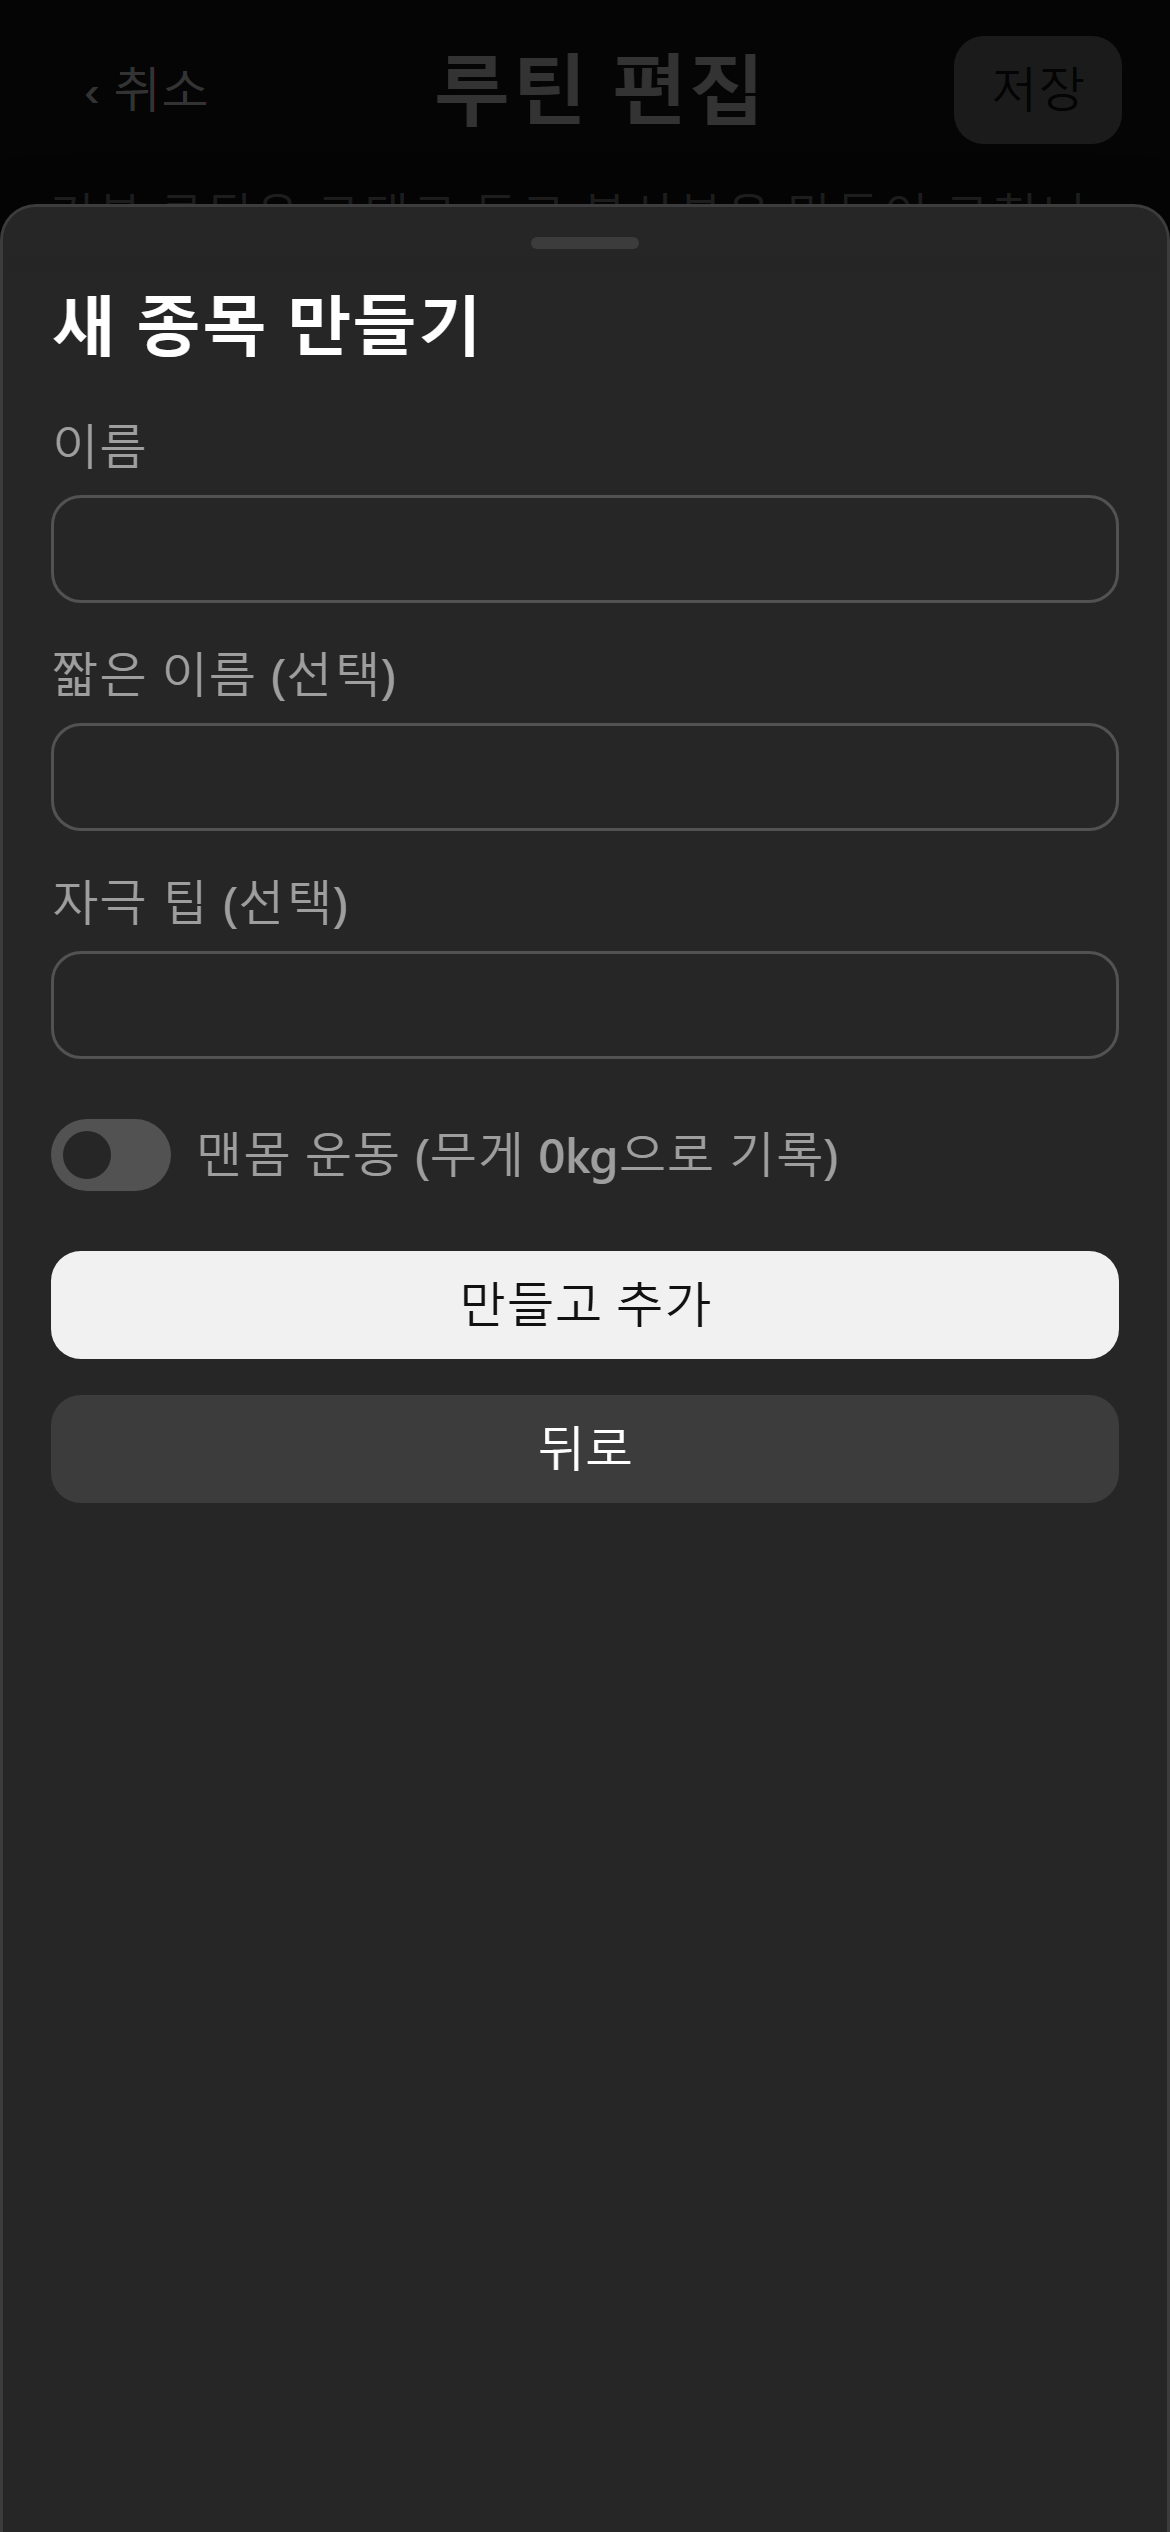
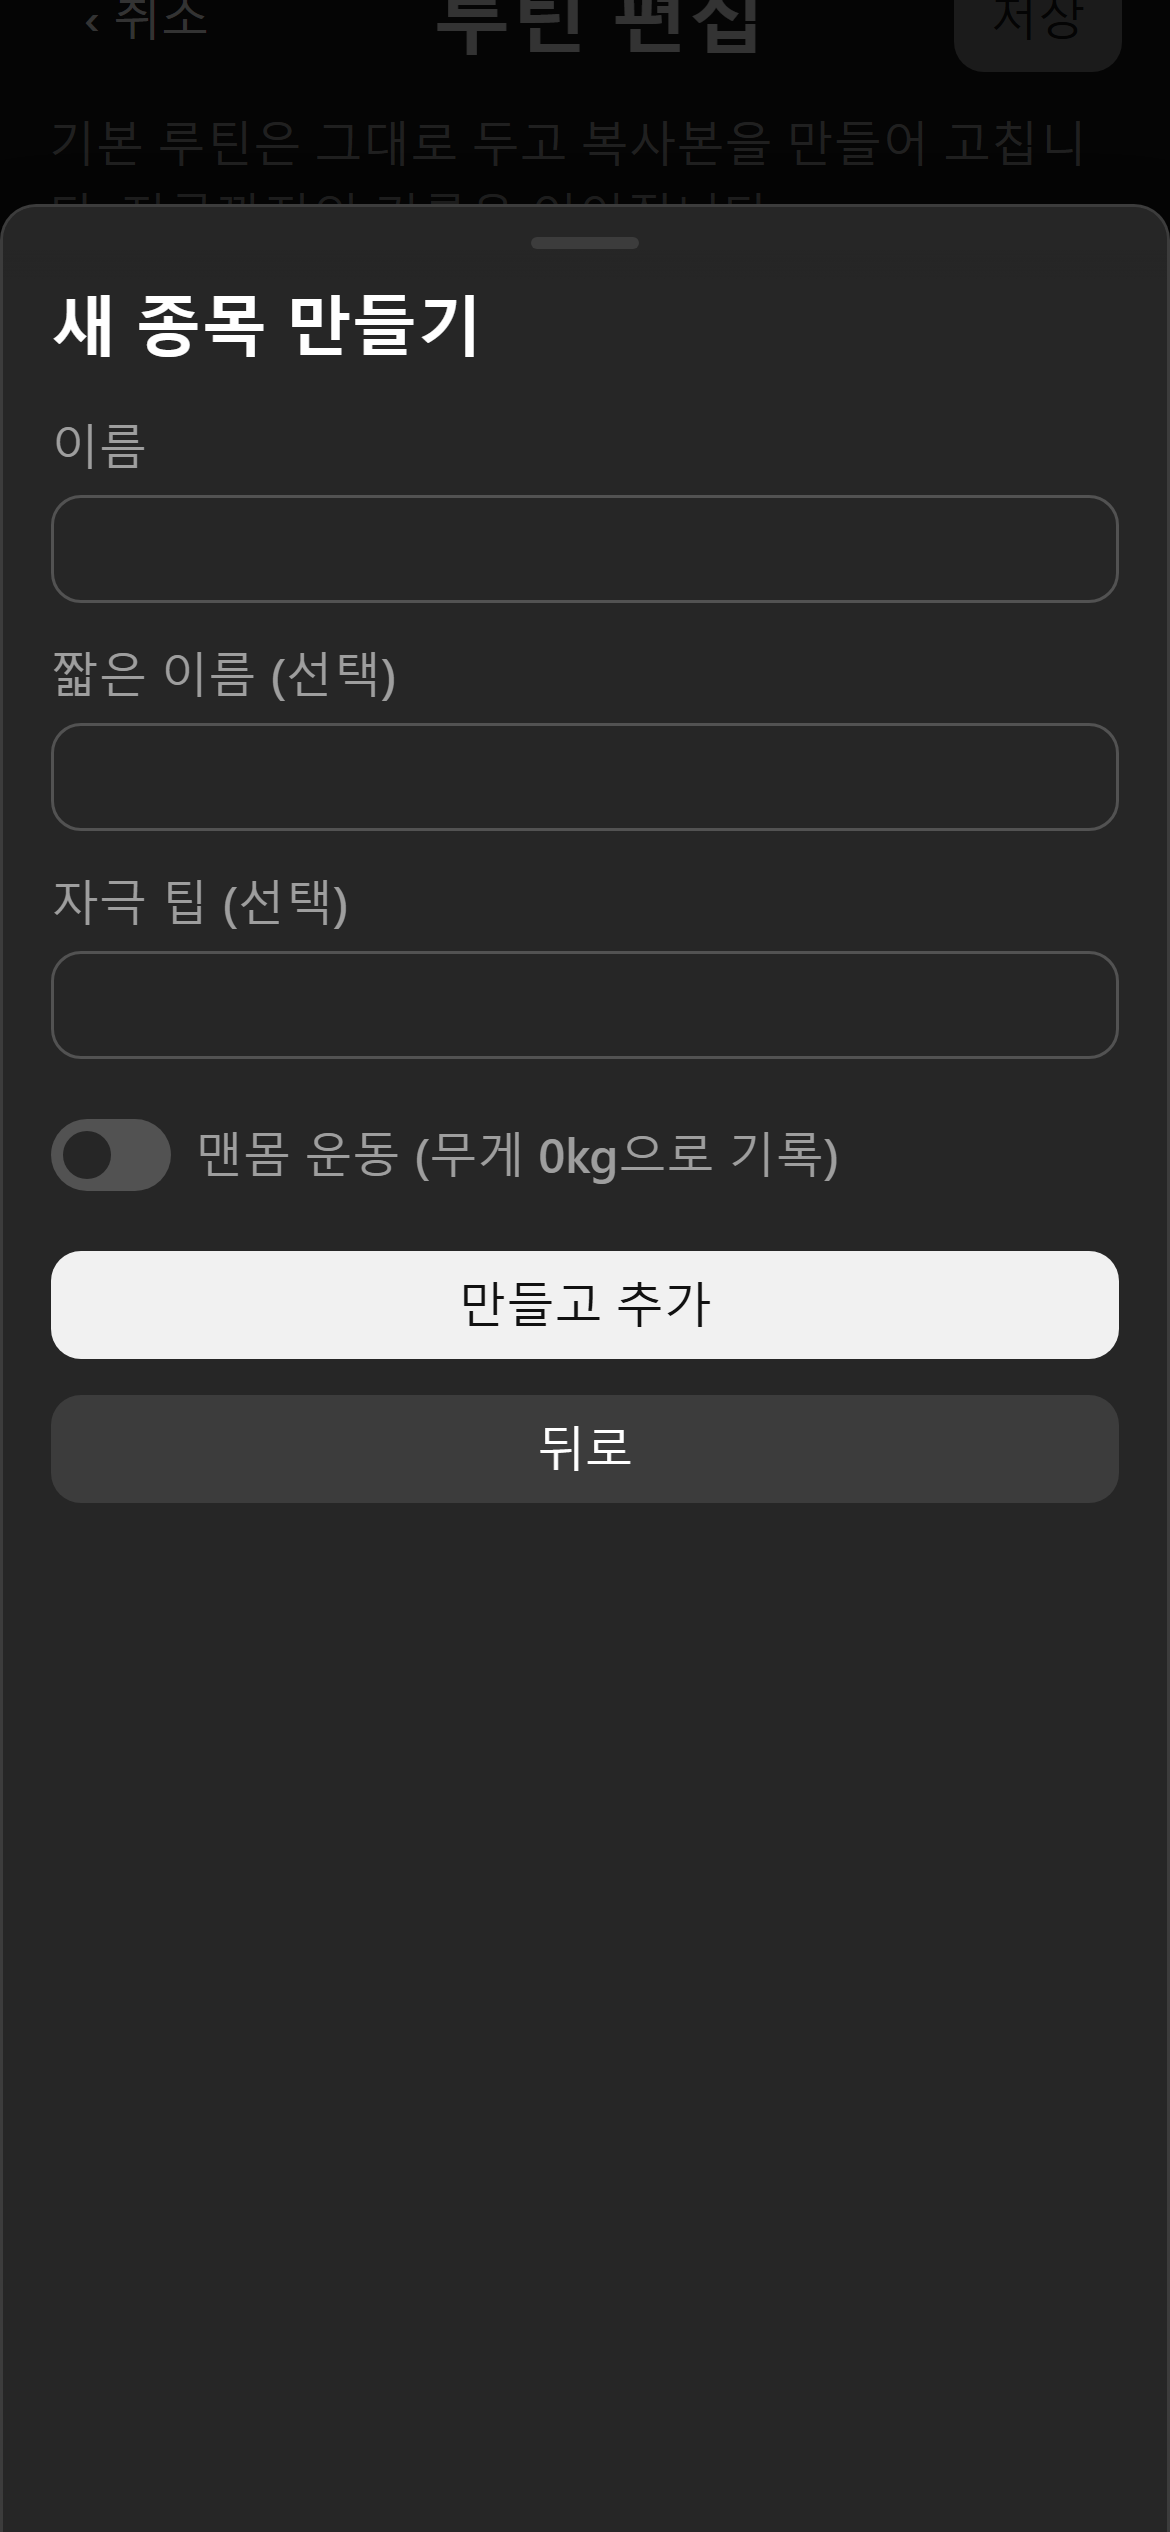
fix(OO3): 오류 배너가 접히지 않게 collapsible={false}·스캔 추가·기록 (리뷰 반려 1)

Changed region(s): [[0.3077, 0.0, 0.6462, 0.0624], [0.0615, 0.0, 0.2462, 0.0624], [0.6769, 0.0312, 0.7385, 0.0624]]

diff --git a/src/lib/v117.test.ts b/src/lib/v117.test.ts
@@ -221,6 +221,17 @@ describe("OO3 — 루틴 편집 화면을 Astryx로", () => {
     expect(src(EDITOR)).toContain("`${muscle} 주간 목표`")
   })
 
+  it("OO3 세 파일의 <Banner 태그마다 같은 태그 안에 collapsible={false}가 있다(접힌 배너가 문제 문구를 가리는 것을 막는다)", () => {
+    let count = 0
+    for (const p of OO3_FILES) {
+      for (const tag of src(p).match(/<Banner\b[^>]*>/g) ?? []) {
+        count += 1
+        expect(tag, `${p} ${tag}`).toContain("collapsible={false}")
+      }
+    }
+    expect(count).toBe(2)
+  })
+
   it("OO3 화면의 상태·저장 경로가 그대로다(toDraft·uniqueId, db. 없음, muscleSets·plannedOrder 직접 대입 없음)", () => {
     const s = src(EDITOR)
     expect(s).toContain("toDraft(")

diff --git a/src/components/ExercisePickerSheet.tsx b/src/components/ExercisePickerSheet.tsx
@@ -132,7 +132,7 @@ function ExerciseFormView({
         <Switch label="맨몸 운동 (무게 0kg으로 기록)" value={bodyweight} onChange={setBodyweight} />
       </VStack>
       {problems.length > 0 && (
-        <Banner status="error" title="저장할 수 없습니다">
+        <Banner status="error" title="저장할 수 없습니다" collapsible={false}>
           <VStack gap={1}>
             {problems.map((p) => (
               <Text key={p}>{p}</Text>

diff --git a/src/screens/RoutineEditorScreen.tsx b/src/screens/RoutineEditorScreen.tsx
@@ -234,7 +234,7 @@ function Editor({
       )}
 
       {problems.length > 0 && (
-        <Banner status="error" title="저장할 수 없습니다">
+        <Banner status="error" title="저장할 수 없습니다" collapsible={false}>
           <VStack gap={1}>
             {problems.map((p) => (
               <Text key={p}>{p}</Text>

diff --git a/docs/DEV-RECORD-v1.17.md b/docs/DEV-RECORD-v1.17.md
@@ -221,9 +221,9 @@ dev 서버(Playwright, `vite createServer`)의 `document.styleSheets`: `[{"name"
 
 | 항목 | 내용 |
 |---|---|
-| 바뀐 파일 | `src/screens/RoutineEditorScreen.tsx`, `src/components/RoutineLineSheet.tsx`, `src/components/ExercisePickerSheet.tsx`, `src/App.tsx`(lazy+Suspense), `src/ax/index.tsx`(`Sheet`에 `SizeProvider`, `Stepper`에 `inputWidth`), `src/lib/v116.test.ts`(표의 두 줄), `src/lib/v117.test.ts`(describe `OO3`, 9개), `scripts/screenshots.mjs`(검사 보정), `README.md`(Limitations 한 줄), 이 문서, `docs/screenshots/v1.17/after-*` 22장 |
+| 바뀐 파일 | `src/screens/RoutineEditorScreen.tsx`, `src/components/RoutineLineSheet.tsx`, `src/components/ExercisePickerSheet.tsx`, `src/App.tsx`(lazy+Suspense), `src/ax/index.tsx`(`Sheet`에 `SizeProvider`, `Stepper`에 `inputWidth`), `src/lib/v116.test.ts`(표의 두 줄), `src/lib/v117.test.ts`(describe `OO3`, 10개), `scripts/screenshots.mjs`(검사 보정), `README.md`(Limitations 한 줄), 이 문서, `docs/screenshots/v1.17/after-*` 22장 |
 | 기존 테스트 | `v116.test.ts` 1064·1169줄만 `/btn-danger\|variant="destructive"/`로. 그 밖에는 안 고쳤다(NN4 `RoutineListPanel` 줄은 건드리지 않음) |
-| 실행 결과 | `npm test`: Test Files 61 passed (61), Tests 1558 passed (1558) · `npm run build` 통과 · `quality-scan --ci` 통과 |
+| 실행 결과 | `npm test`: Test Files 61 passed (61), Tests 1559 passed (1559) · `npm run build` 통과 · `quality-scan --ci` 통과 |
 | 과거 판정 불변 | 아래 "과거 판정 불변 확인" 절 |
 
 ### PLAN과 다르게 한 것
@@ -236,6 +236,7 @@ dev 서버(Playwright, `vite createServer`)의 `document.styleSheets`: `[{"name"
 | 시트 안 버튼 크기 | `ax`의 `Sheet`가 `SizeProvider value="lg"`를 다시 건다 | 시트 안은 크기 기본값이 새로 시작해 `닫기`·`−`·`+`가 32px로 나왔다 |
 | 간격 | 줄 시트 `VStack gap={5}`·칩 `gap={4}`·`Switch`는 `paddingBlock={2}`, 주간 목표 `gap={3}`, 고르기 목록 `gap={4}` | "붙은 컨트롤 8px 이상"을 넘겨 탭 영역을 얻으려고 넓힘 |
 | 흐름 검사 4개 스크립트 | 아래 "스크립트 보정" | OO0 때 한 번도 못 돌려 본 선택자·타이밍 |
+| `<Banner status="error">` (PLAN에 prop 없음) | `collapsible={false}`를 더함(편집 화면·종목 고르기 시트) | 리뷰 반려 1: 기본값이 접힘이라 `루틴 이름을 적어 주세요` 같은 문제 문구가 가려졌다 |
 
 ### PLAN과 다르게 한 것 — 사람 결정 (A)
 
@@ -314,7 +315,7 @@ dev 서버(Playwright, `vite createServer`)의 `document.styleSheets`: `[{"name"
  3 files changed, 243 insertions(+), 2 deletions(-)
 ```
 
-`inputProps.ts`·`v116.test.ts`·`v117.test.ts`만이다. 골든 테스트는 수정 없이 통과(`Tests 1558 passed`). 바뀌는 것은 PLAN의 "과거 판정 불변" 표 그대로다. 이 기록 커밋은 `src/lib`을 더 안 건드린다.
+`inputProps.ts`·`v116.test.ts`·`v117.test.ts`만이다. 골든 테스트는 수정 없이 통과(`Tests 1559 passed`). 바뀌는 것은 PLAN의 "과거 판정 불변" 표 그대로다. 이 기록 커밋은 `src/lib`을 더 안 건드린다.
 
 ### 배포 영향
 
@@ -325,7 +326,7 @@ dev 서버(Playwright, `vite createServer`)의 `document.styleSheets`: `[{"name"
 
 ### 마무리
 
-- `npm test`: Test Files 61 passed (61), Tests 1558 passed (1558) · `npm run build` 통과 · `node scripts/quality-scan.mjs --ci` 통과
+- `npm test`: Test Files 61 passed (61), Tests 1559 passed (1559) · `npm run build` 통과 · `node scripts/quality-scan.mjs --ci` 통과
 - `package.json`·`package-lock.json` `1.17.0`. `git rev-list --count main..HEAD`: 6(이 기록 커밋 전)
 - ⑦: `v116` 스캔이 못 잡는다(앞 버튼의 `destructive`가 260자 창에 걸림 — `v117` OO3 테스트는 같은 `<Button` 태그 안만 보게 고쳐 잡는다).
 
@@ -346,4 +347,14 @@ Astryx CSS·JS는 지연 청크 `RoutineEditorScreen-*`에만 있다. 그 CSS의
 
 ### 장면 확인 (after 다크·라이트, 390; 보이는 것만)
 
-세로로 쌓인 제목 없음(`루틴 편집` 한 줄) · 머리 줄이 겹치지 않음(검사 ✓) · `Day 1 — Push` 다 보임 · 종목 이름이 줄바꿈되고 ▲▼가 화면 안(`editor-long` 긴 이름 두 줄) · ▲▼·`−`·`+`가 글자로 보임 · 라이트에서 글자 읽힘. 시트 마지막 버튼 가림 없음(`마지막 줄` ✓). 위 `반복 최소` 꺾임만 예외.
+editor-problems: 문제 문구(`루틴 이름을 적어 주세요`)가 배너 안에 보임 · 세로로 쌓인 제목 없음(`루틴 편집` 한 줄) · 머리 줄이 겹치지 않음(검사 ✓) · `Day 1 — Push` 다 보임 · 종목 이름이 줄바꿈되고 ▲▼가 화면 안(`editor-long` 긴 이름 두 줄) · ▲▼·`−`·`+`가 글자로 보임 · 라이트에서 글자 읽힘. 시트 마지막 버튼 가림 없음(`마지막 줄` ✓). 위 `반복 최소` 꺾임만 예외.
+
+### 리뷰 반영 (반려 1)
+
+| 항목 | 내용 |
+|---|---|
+| 고친 것 | `RoutineEditorScreen.tsx:237`·`ExercisePickerSheet.tsx:135`의 `<Banner>`에 `collapsible={false}`. 스캔 추가: `v117` OO3 "세 파일의 `<Banner` 태그마다 같은 태그 안에 `collapsible={false}`"(OO3 10개) |
+| 결함 복원 | `ExercisePickerSheet.tsx`에서 `collapsible={false}` 제거 → 새 스캔 실패(`Tests 1 failed | 20 passed`) → `cp` 원복 → `cmp` 같음, `git status`에 의도한 변경만 |
+| 장면 확인 | `after-editor-problems-{dark,light}.png`: 배너 안에 `루틴 이름을 적어 주세요`가 보임. `picker-form`·`settings`도 다시 찍혀 바뀜 |
+| 실행 결과 | `npm test`: Test Files 61 passed (61), Tests 1559 passed (1559) · `npm run build` 통과 · `quality-scan --ci` 통과 |
+| 경미한 점 | `editor-full`·`editor-long`의 회색 줄(hover)은 스크립트가 마우스를 옮기지 않아 그대로(앱 결함 아님). 메인 `index-*` gzip은 OO1 값을 못 찾음("OO1 때 안 잼"). ⑩ 배경·테두리 스크린샷 확인은 이번에도 안 함. `−` 글자 기준선은 그대로 |
